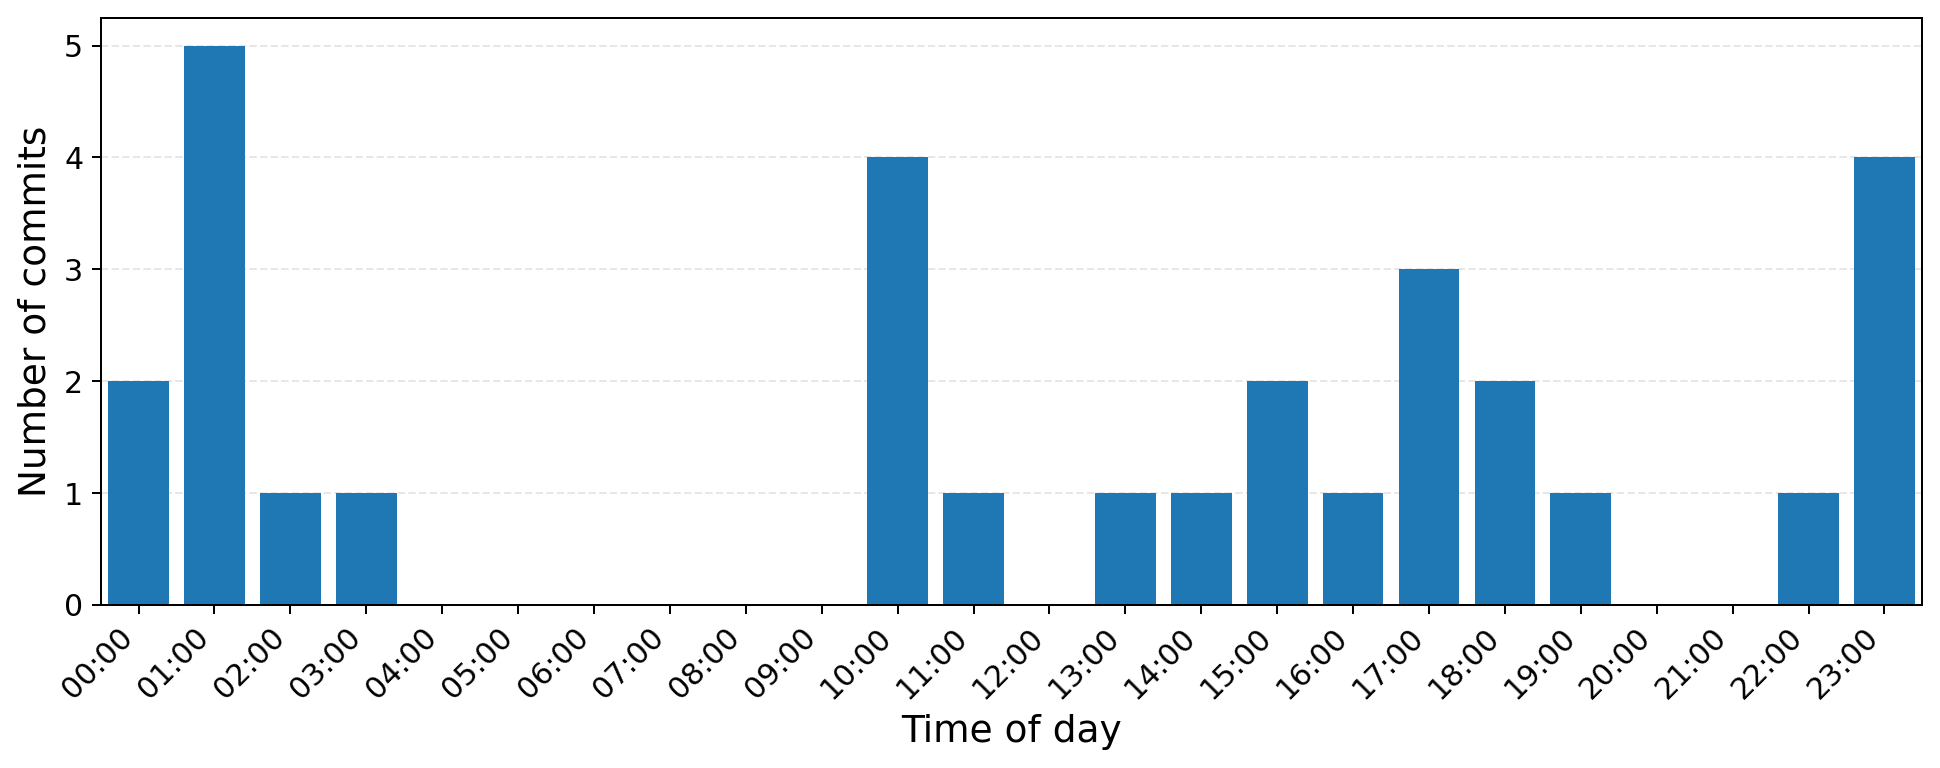
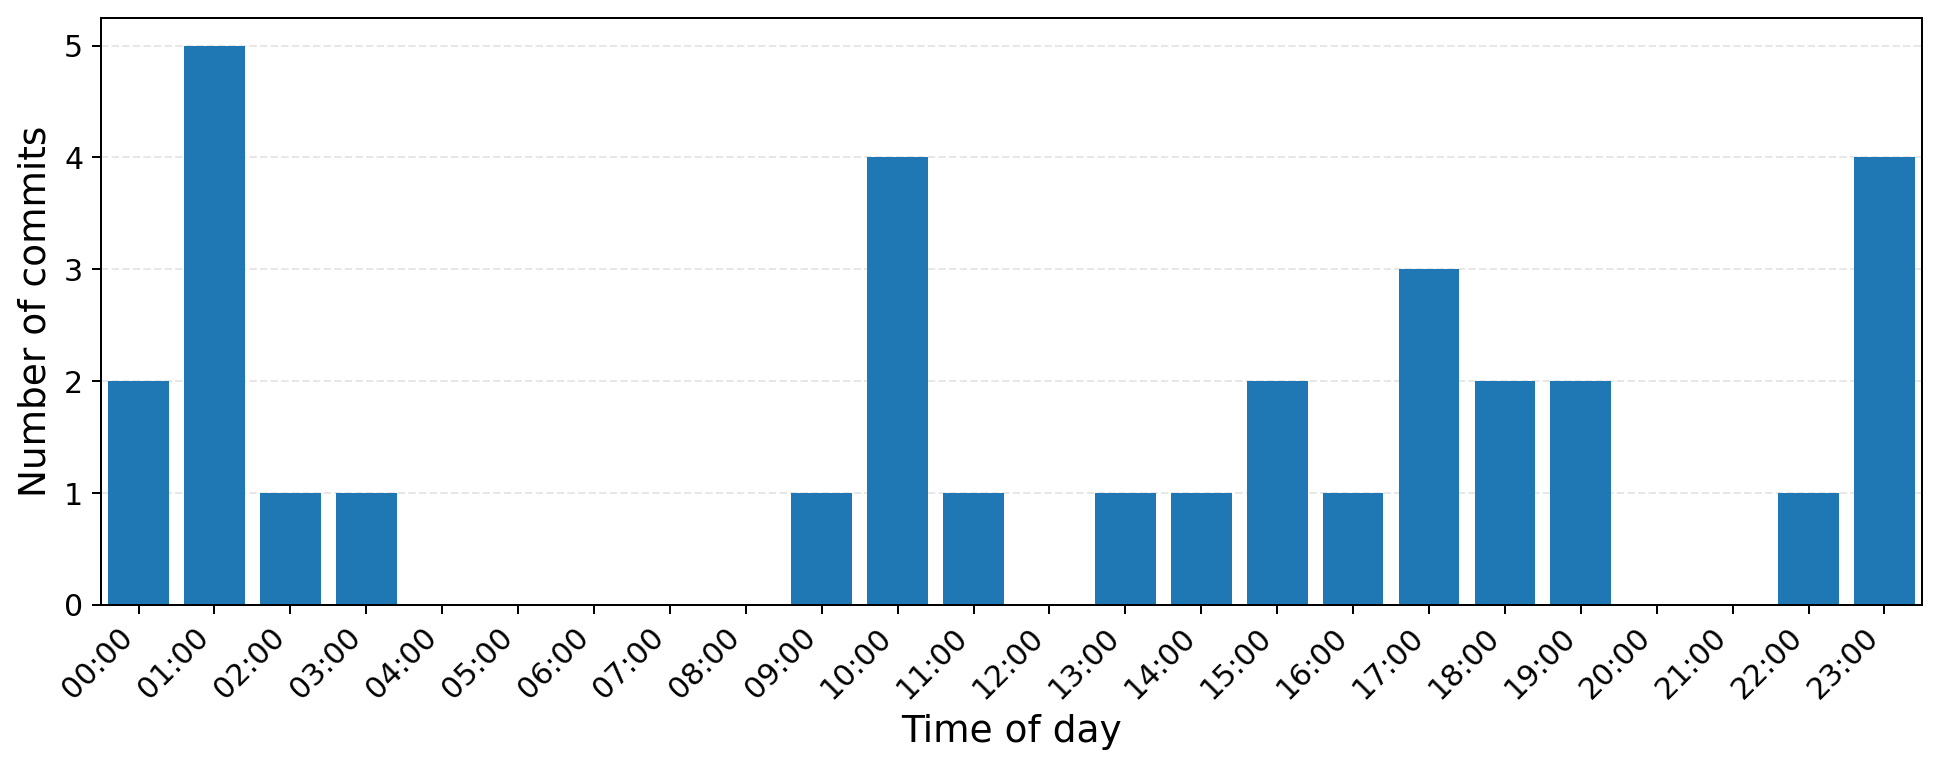
Added Pages plot

Changed region(s): [[0.7732, 0.4688, 0.8351, 0.6562], [0.4021, 0.625, 0.4639, 0.8125]]

diff --git a/index.html b/index.html
@@ -12,7 +12,7 @@
     <p class="eyebrow">THESIS WRITING LOG</p>
     <h1>Thesis Progress</h1>
     <p>A visual overview of writing progress over time.</p>
-    <p class="updated">Last updated: 2026-11-03 18:02 CET</p>
+    <p class="updated">Last updated: 2026-11-04 10:38 CET</p>
   </header>
 
   <main>
@@ -65,6 +65,16 @@
           </p>
         </article>
         
+
+        <article class="summary-card">
+          <p class="summary-label">Total pages</p>
+          <p class="summary-total">65</p>
+          <p class="summary-change"
+             style="color: #16A34A;">
+            +4 this week
+          </p>
+        </article>
+        
 <!-- SUMMARY_CARDS_END -->
       </div>
     </section>
@@ -99,6 +109,11 @@
           <figcaption>Lines</figcaption>
           <img src="images/lines.png" alt="Lines over time">
         </figure>
+
+	<figure>
+		<figcaption>Thesis pages</figcaption>
+		<img src="images/thesis_pages.png" alt="Number of thesis PDF pages over time">
+	</figure>
 
         <figure>
           <figcaption>Equations</figcaption>
